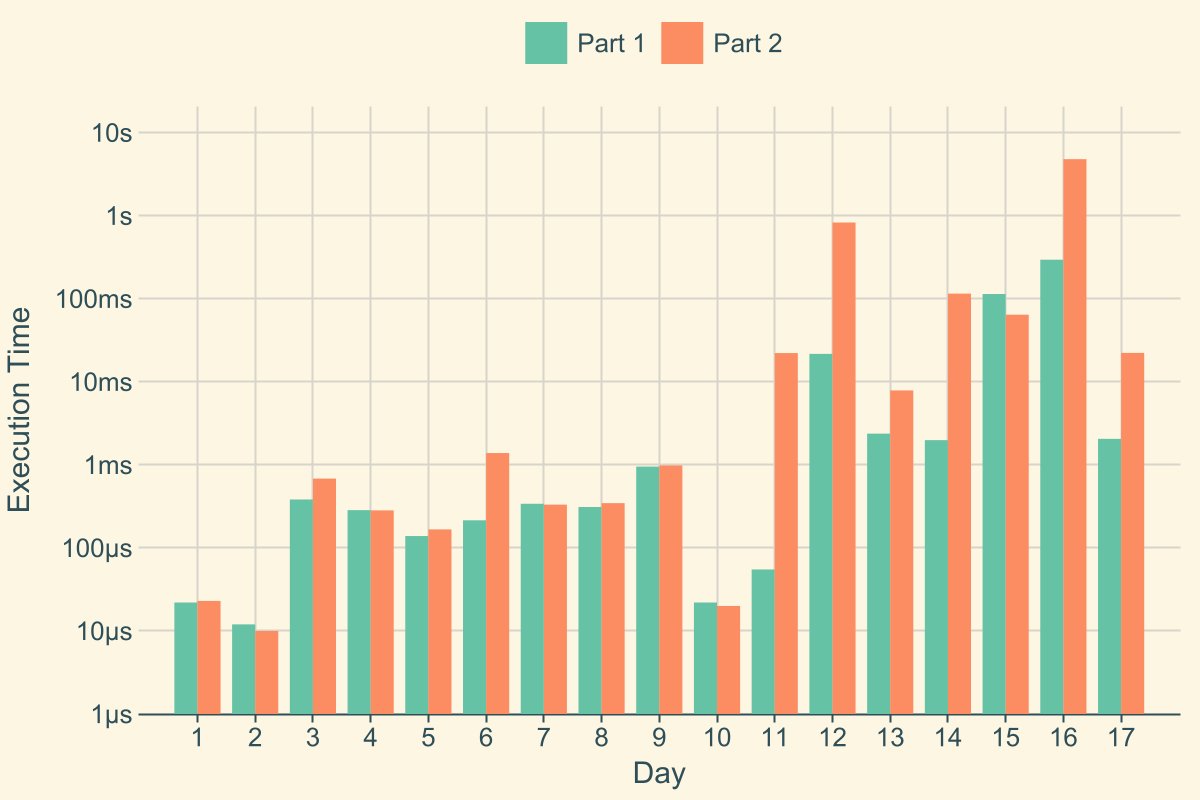
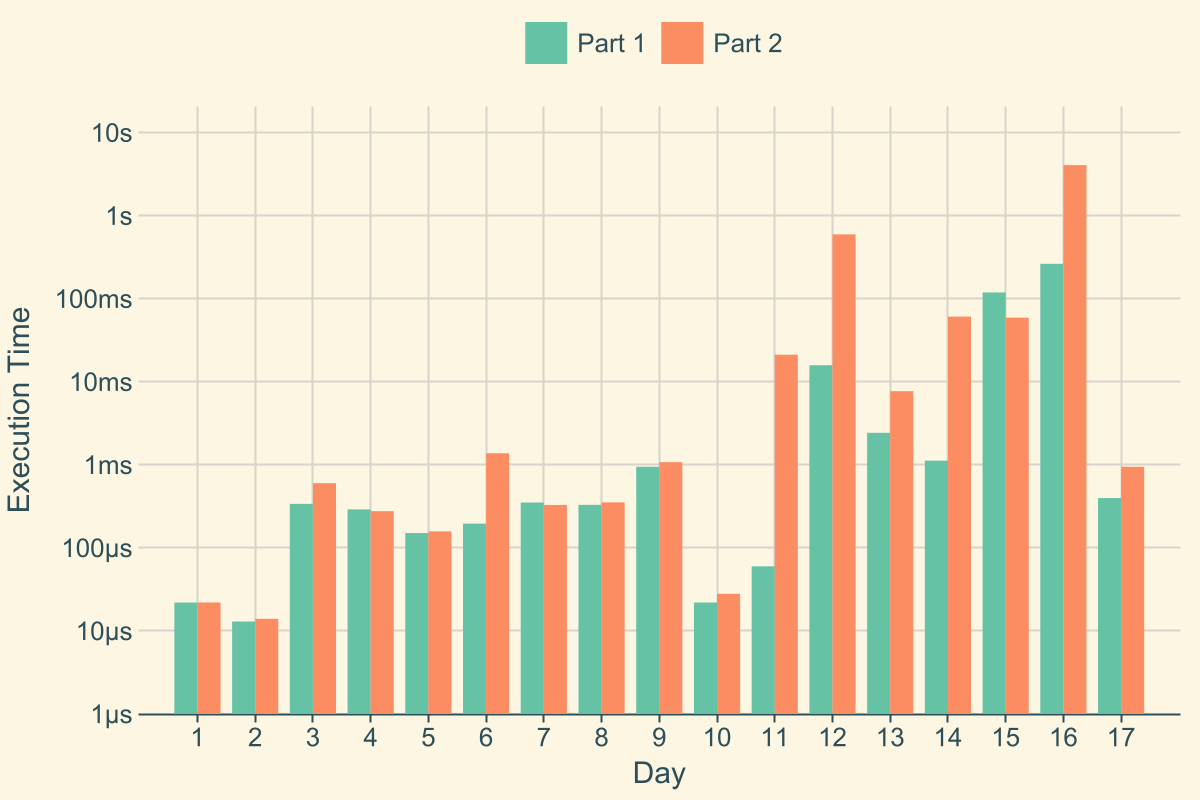
17 small improvement

diff --git a/src/day17.rs b/src/day17.rs
@@ -82,12 +82,14 @@ fn play(directions: Vec<Point>, steps: u64) -> u64 {
     let maybe_cycle =
         (0..steps)
             .find_map(|s| {
-                if let Some(cycle) = map.find_cycle() {
-                    Some((s, cycle))
-                } else {
-                    step();
-                    None
+                // Checking for a cycle is expensive, so only do it every few hundred steps
+                if s % 1000 == 0 {
+                    if let Some(cycle) = map.find_cycle() {
+                        return Some((s, cycle));
+                    }
                 }
+                step();
+                None
             });
 
     if let Some((steps_taken, cycle_height)) = maybe_cycle {
@@ -191,7 +193,7 @@ impl Map {
         let arr = self.raw.borrow();
         let y0 = arr.len() - 1;
 
-        'outer: for cycle_length in (5..(y0 / 4)).rev() {
+        'outer: for cycle_length in (5..(y0 / 3)).rev() {
             for i in 0..cycle_length {
                 let i1 = arr.get(y0 - i)?;
                 let i2 = arr.get(y0 - i - cycle_length)?;
